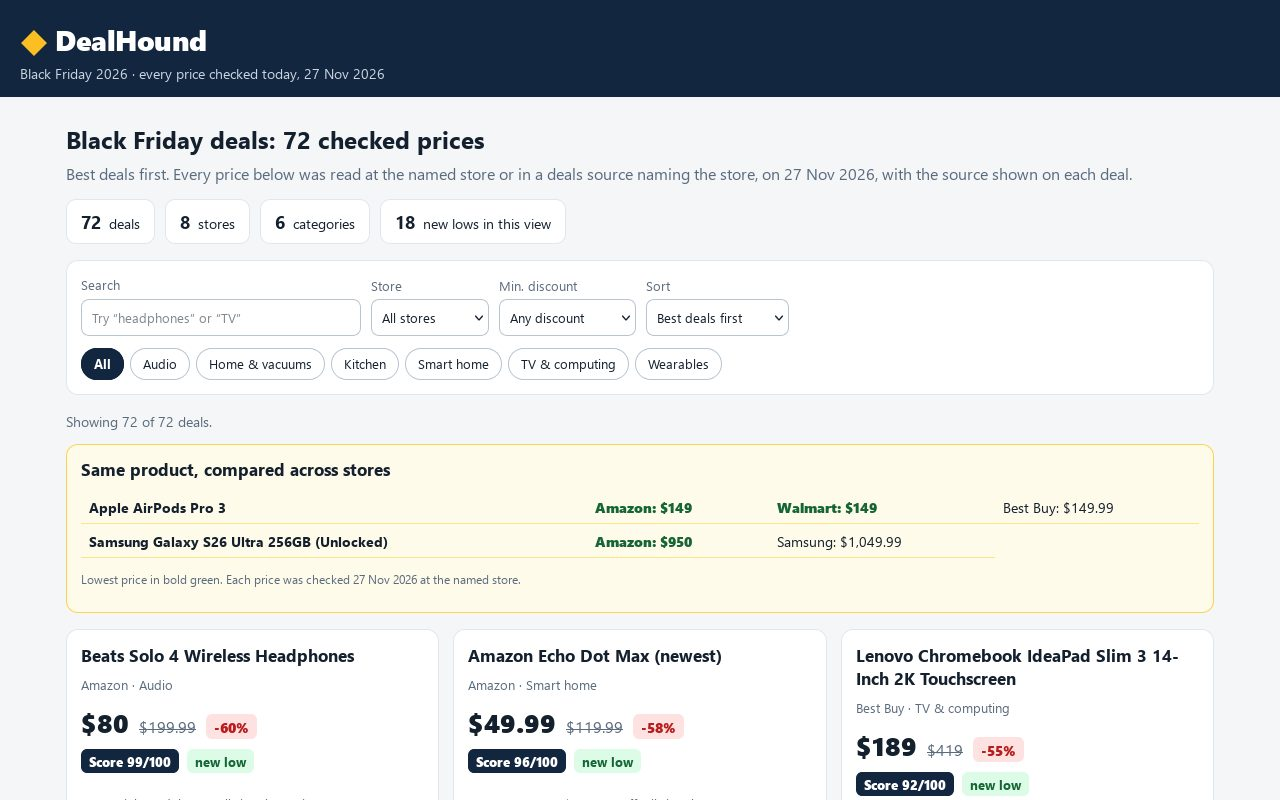
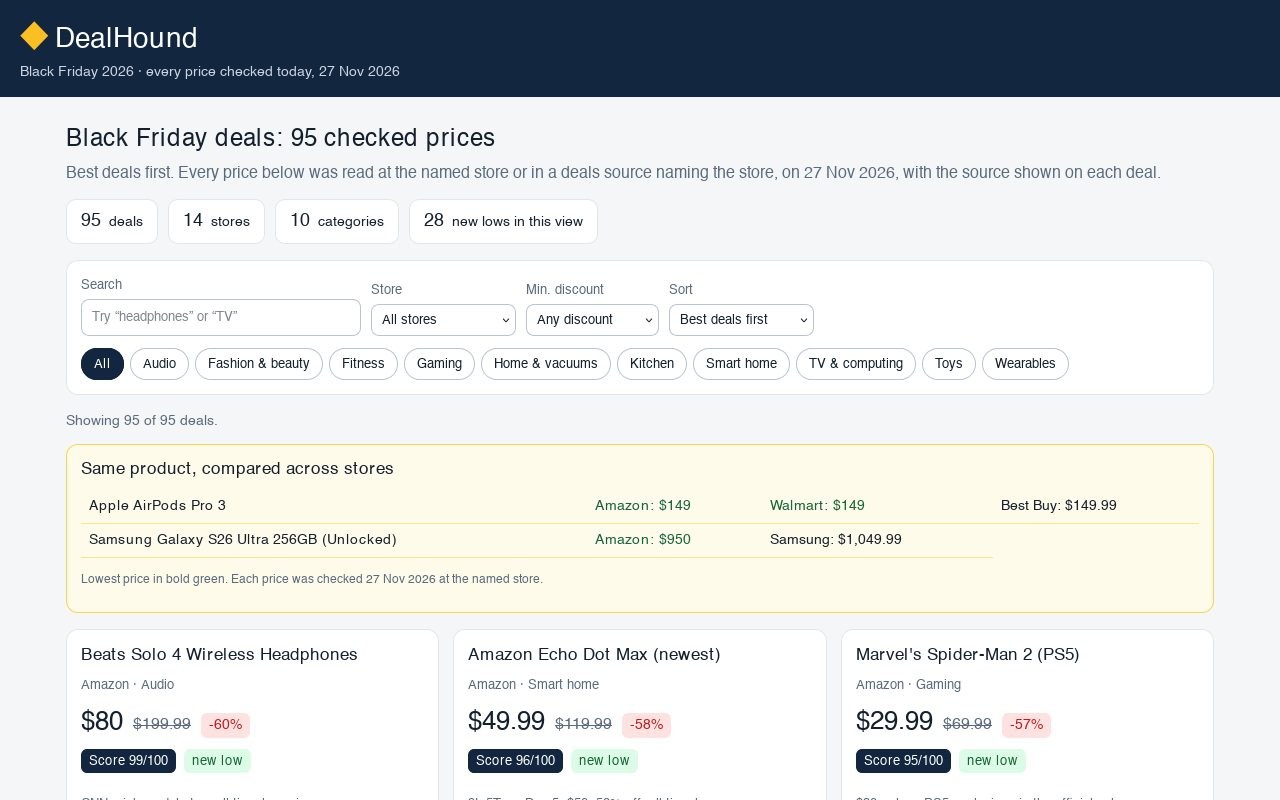
Add 23 gaming/toys/fitness/beauty deals: 95 verified deals, 14 stores, 10 categories

diff --git a/app/deals.js b/app/deals.js
@@ -950,4 +950,304 @@ export const deals = [
     verdict: "routine sale",
     evidence: "Only 20% off, frequently $79.99",
   },
+  {
+    id: "switch-2-mario-kart-bundle",
+    title: "Nintendo Switch 2 + Mario Kart World Bundle",
+    store: "Walmart",
+    category: "Gaming",
+    price: 499.99,
+    was: 549.99,
+    url: "https://www.walmart.com/search?q=Nintendo+Switch+2+Mario+Kart+World+Bundle",
+    checked: "2026-11-27T09:00:00Z",
+    source: "FullCleared, updated 25 Nov 2026",
+    verdict: "strong price",
+    evidence: "First $50 cut — effectively free Mario Kart World",
+  },
+  {
+    id: "donkey-kong-bananza",
+    title: "Donkey Kong Bananza (Switch 2)",
+    store: "Amazon",
+    category: "Gaming",
+    price: 49.99,
+    was: 69.99,
+    url: "https://www.amazon.com/s?k=Donkey+Kong+Bananza+Switch+2",
+    checked: "2026-11-27T09:00:00Z",
+    source: "GamesRadar via Steam, 23 Nov 2026",
+    verdict: "new low",
+    evidence: "First-ever discount, record-low $49.99",
+  },
+  {
+    id: "dualsense-white",
+    title: "PlayStation DualSense Wireless Controller – White",
+    store: "Amazon",
+    category: "Gaming",
+    price: 54,
+    was: 74,
+    url: "https://www.amazon.com/s?k=PlayStation+DualSense+Wireless+Controller+White",
+    checked: "2026-11-27T09:00:00Z",
+    source: "TournamentPK, 27 Nov 2026; PlayStation Blog, 3 Nov 2026",
+    verdict: "strong price",
+    evidence: "$20 off in the official Black Friday sale, 16-30 Nov",
+  },
+  {
+    id: "dualsense-edge",
+    title: "PlayStation DualSense Edge Wireless Controller",
+    store: "Amazon",
+    category: "Gaming",
+    price: 169,
+    was: 199,
+    url: "https://www.amazon.com/s?k=PlayStation+DualSense+Edge+Wireless+Controller",
+    checked: "2026-11-27T09:00:00Z",
+    source: "9to5Toys, 16 Nov 2026",
+    verdict: "strong price",
+    evidence: "$30 off, rarely discounted",
+  },
+  {
+    id: "ps-vr2",
+    title: "PlayStation VR2",
+    store: "PlayStation Direct",
+    category: "Gaming",
+    price: 299.99,
+    was: 399.99,
+    url: "https://direct.playstation.com/en-us/search?query=PlayStation+VR2",
+    checked: "2026-11-27T09:00:00Z",
+    source: "Pro-Gamer, 16 Nov 2026; Polygon, 16 Nov 2026",
+    verdict: "new low",
+    evidence: "$100 off, sub-$300 after the $399.99 baseline cut",
+  },
+  {
+    id: "spider-man-2-ps5",
+    title: "Marvel's Spider-Man 2 (PS5)",
+    store: "Amazon",
+    category: "Gaming",
+    price: 29.99,
+    was: 69.99,
+    url: "https://www.amazon.com/s?k=Marvel+Spider-Man+2+PS5",
+    checked: "2026-11-27T09:00:00Z",
+    source: "FullCleared, updated 25 Nov 2026; IGN, 16 Nov 2026",
+    verdict: "new low",
+    evidence: "$30-or-less PS5 exclusives in the official sale",
+  },
+  {
+    id: "xbox-controller-carbon-black",
+    title: "Xbox Wireless Controller – Carbon Black",
+    store: "GameStop",
+    category: "Gaming",
+    price: 39.99,
+    was: 64.99,
+    url: "https://www.gamestop.com/gaming-accessories/controllers/xbox-series-x%7Cs/products/microsoft-xbox-wireless-controller-for-xbox-series-x-s-xbox-one-and-windows-devices---carbon-black/229092.html",
+    checked: "2026-11-27T09:00:00Z",
+    source: "GameStop product page, read 27 Nov 2026",
+    verdict: "new low",
+    evidence: "Never below $45 before, all-time low",
+  },
+  {
+    id: "lego-mandalorian-n1",
+    title: "LEGO Star Wars The Mandalorian's N-1 Starfighter (75325)",
+    store: "Amazon",
+    category: "Toys",
+    price: 41.99,
+    was: 59.99,
+    url: "https://www.amazon.com/s?k=LEGO+Star+Wars+Mandalorian+N-1+Starfighter+75325",
+    checked: "2026-11-27T09:00:00Z",
+    source: "Screen Rant, 26 Nov 2026",
+    verdict: "strong price",
+    evidence: "30% off on Amazon for Black Friday",
+  },
+  {
+    id: "lego-battle-droid-stap",
+    title: "LEGO Star Wars Battle Droid with STAP (75428)",
+    store: "Amazon",
+    category: "Toys",
+    price: 83.99,
+    was: 139.99,
+    url: "https://www.amazon.com/s?k=LEGO+Star+Wars+Battle+Droid+STAP+75428",
+    checked: "2026-11-27T09:00:00Z",
+    source: "Screen Rant, 26 Nov 2026",
+    verdict: "strong price",
+    evidence: "40% off, 1,088 pieces",
+  },
+  {
+    id: "lego-grogu-hover-pram",
+    title: "LEGO Star Wars Grogu with Hover Pram (75403)",
+    store: "Walmart",
+    category: "Toys",
+    price: 64.99,
+    was: 99.99,
+    url: "https://www.walmart.com/search?q=LEGO+Star+Wars+Grogu+Hover+Pram+75403",
+    checked: "2026-11-27T09:00:00Z",
+    source: "Screen Rant, 26 Nov 2026",
+    verdict: "strong price",
+    evidence: "35% off at Walmart",
+  },
+  {
+    id: "lego-kylo-shuttle",
+    title: "LEGO Star Wars Kylo Ren's Command Shuttle (75406)",
+    store: "Walmart",
+    category: "Toys",
+    price: 35,
+    was: 69.99,
+    url: "https://www.walmart.com/search?q=LEGO+Star+Wars+Kylo+Ren+Command+Shuttle+75406",
+    checked: "2026-11-27T09:00:00Z",
+    source: "Screen Rant, 26 Nov 2026",
+    verdict: "new low",
+    evidence: "50% off at Walmart",
+  },
+  {
+    id: "lego-ferrari-sf24",
+    title: "LEGO Speed Champions Ferrari SF-24 F1 Race Car (77242)",
+    store: "Amazon",
+    category: "Toys",
+    price: 15,
+    was: 26.99,
+    url: "https://www.amazon.com/LEGO-Speed-Champions-Ferrari-SF-24/dp/B0DHLHWZT7",
+    checked: "2026-11-27T09:00:00Z",
+    source: "CNN Underscored LEGO deals, 27 Nov 2026",
+    verdict: "new low",
+    evidence: "44% off, best chance to save per CNN",
+  },
+  {
+    id: "lego-botanicals-succulents",
+    title: "LEGO Botanicals Succulents",
+    store: "Amazon",
+    category: "Toys",
+    price: 28,
+    was: 49.99,
+    url: "https://www.amazon.com/s?k=LEGO+Botanicals+Succulents",
+    checked: "2026-11-27T09:00:00Z",
+    source: "CNN Underscored LEGO deals, 27 Nov 2026",
+    verdict: "new low",
+    evidence: "Lowest price ever, 44% off",
+  },
+  {
+    id: "operation-board-game",
+    title: "Operation Electronic Board Game",
+    store: "Walmart",
+    category: "Toys",
+    price: 10,
+    was: 19.99,
+    url: "https://www.walmart.com/search?q=Operation+Electronic+Board+Game",
+    checked: "2026-11-27T09:00:00Z",
+    source: "Walmart Black Friday board games page, crawled 24 Nov 2026",
+    verdict: "strong price",
+    evidence: "Labelled Black Friday Deal, 50% off",
+  },
+  {
+    id: "rummikub-original",
+    title: "The Original Rummikub",
+    store: "Walmart",
+    category: "Toys",
+    price: 10,
+    was: 18.98,
+    url: "https://www.walmart.com/search?q=Rummikub+Original",
+    checked: "2026-11-27T09:00:00Z",
+    source: "Walmart Black Friday Games and Puzzles, crawled 27 Nov 2026",
+    verdict: "strong price",
+    evidence: "Labelled Black Friday Deal, 47% off",
+  },
+  {
+    id: "horizon-t202",
+    title: "Horizon T202 Treadmill",
+    store: "Horizon Fitness",
+    category: "Fitness",
+    price: 899,
+    was: 1299,
+    url: "https://www.horizonfitness.com/search?q=Horizon+T202+Treadmill",
+    checked: "2026-11-27T09:00:00Z",
+    source: "MyActiveTribe, 24 Nov 2026",
+    verdict: "strong price",
+    evidence: "Strongest under-$1,000 tier cut, 31% off",
+  },
+  {
+    id: "nordictrack-t65s",
+    title: "NordicTrack T Series 6.5 S Treadmill",
+    store: "Amazon",
+    category: "Fitness",
+    price: 616,
+    was: 799,
+    url: "https://www.amazon.com/s?k=NordicTrack+T+Series+6.5+S+Treadmill",
+    checked: "2026-11-27T09:00:00Z",
+    source: "CyberMondayIsHere, prices as of 26 Nov 2026",
+    verdict: "new low",
+    evidence: "Lowest price tracked, Black Friday Deal ends 1 Dec",
+  },
+  {
+    id: "dyson-airwrap-id",
+    title: "Dyson Airwrap i.d. Multi-Styler",
+    store: "Sephora",
+    category: "Fashion & beauty",
+    price: 499,
+    was: 649.99,
+    url: "https://www.sephora.com/search?keyword=Dyson+Airwrap",
+    checked: "2026-11-27T09:00:00Z",
+    source: "CNN Underscored Beauty deals, 26 Nov 2026",
+    verdict: "new low",
+    evidence: "Lowest price we've seen, $150 off",
+  },
+  {
+    id: "shark-flexstyle-ioncurl",
+    title: "Shark Beauty FlexStyle IonCurl Styling System",
+    store: "Sephora",
+    category: "Fashion & beauty",
+    price: 249,
+    was: 349,
+    url: "https://www.sephora.com/search?keyword=Shark+FlexStyle",
+    checked: "2026-11-27T09:00:00Z",
+    source: "CNN Underscored Beauty deals, 26 Nov 2026",
+    verdict: "strong price",
+    evidence: "$100 off at multiple retailers",
+  },
+  {
+    id: "truskin-vitamin-c-serum",
+    title: "TruSkin 2-Ounce Vitamin C Facial Serum",
+    store: "Amazon",
+    category: "Fashion & beauty",
+    price: 19,
+    was: 37.99,
+    url: "https://www.amazon.com/s?k=TruSkin+Vitamin+C+Facial+Serum",
+    checked: "2026-11-27T09:00:00Z",
+    source: "CNN Underscored Beauty deals, 26 Nov 2026",
+    verdict: "new low",
+    evidence: "Lowest price ever at 50% off",
+  },
+  {
+    id: "lululemon-align-25",
+    title: "lululemon Align High-Rise Pant 25\"",
+    store: "lululemon",
+    category: "Fashion & beauty",
+    price: 59,
+    was: 98,
+    url: "https://shop.lululemon.com/search?Ntt=Align+High-Rise+Pant+25",
+    checked: "2026-11-27T09:00:00Z",
+    source: "BigDeal / DealNews, 26-27 Nov 2026",
+    verdict: "strong price",
+    evidence: "$59 vs $98 in Black Friday Specials",
+  },
+  {
+    id: "nike-pegasus-42",
+    title: "Nike Pegasus 42 Road Running Shoes",
+    store: "Nike",
+    category: "Fashion & beauty",
+    price: 82.97,
+    was: 145,
+    url: "https://www.nike.com/w?q=Pegasus+42",
+    checked: "2026-11-27T09:00:00Z",
+    source: "DealNews Nike, Nov 2026",
+    verdict: "strong price",
+    evidence: "$82.97, an $11 low per DealNews",
+  },
+  {
+    id: "nike-air-force-1-07",
+    title: "Nike Air Force 1 '07 Men's Shoes",
+    store: "Nike",
+    category: "Fashion & beauty",
+    price: 64,
+    was: 115,
+    url: "https://www.nike.com/w?q=Air+Force+1+07",
+    checked: "2026-11-27T09:00:00Z",
+    source: "DealNews Nike, 4 Nov 2026 / verified 26 Nov 2026",
+    verdict: "strong price",
+    evidence: "$64 in cart with code BFRIDAY, down from $115",
+    note: "Use code BFRIDAY at checkout",
+  },
 ];

diff --git a/README.md b/README.md
@@ -4,7 +4,7 @@
 [![rank](https://make.fun/badge/black-friday-deal-finder-01/sinker234/black-friday-deal-finder-01-entry/rank.svg)](https://make.fun/bounty/black-friday-deal-finder-01/leaderboard?utm_source=github&utm_medium=readme&utm_campaign=black-friday-deal-finder-01)
 [![reward](https://make.fun/badge/black-friday-deal-finder-01/sinker234/black-friday-deal-finder-01-entry/reward.svg)](https://make.fun/bounty/black-friday-deal-finder-01?utm_source=github&utm_medium=readme&utm_campaign=black-friday-deal-finder-01)
 
-DealHound — a Black Friday 2026 deal finder with 72 verified deals across 8 stores (Amazon, Best Buy, Walmart, Dell, Samsung, Google Store, Caraway, HexClad) and 6 categories, each price checked on 27 Nov 2026 with its source and an honest verdict (18 new lows, 50 strong prices, 4 routine sales). Search and filters by category, store and discount that work; sorting by best deal, biggest discount, lowest price or biggest saving; a score on every deal; and the same product compared across stores (AirPods Pro 3 at Amazon, Walmart and Best Buy; Galaxy S26 Ultra at Amazon and Samsung). Every discount is computed from the sale price and the usual price shown. The site is plain static files under app/ with no build step and no network request at runtime.
+DealHound — a Black Friday 2026 deal finder with 95 verified deals across 14 stores (Amazon, Best Buy, Walmart, Dell, Samsung, Google Store, Caraway, HexClad, GameStop, Horizon Fitness, Sephora, lululemon, Nike, PlayStation Direct) and 10 categories, each price checked on 27 Nov 2026 with its source and an honest verdict (28 new lows, 63 strong prices, 4 routine sales). Search and filters by category, store and discount that work; sorting by best deal, biggest discount, lowest price or biggest saving; a score on every deal; and the same product compared across stores (AirPods Pro 3 at Amazon, Walmart and Best Buy; Galaxy S26 Ultra at Amazon and Samsung). Every discount is computed from the sale price and the usual price shown. The site is plain static files under app/ with no build step and no network request at runtime.
 
 ## Run it
 
